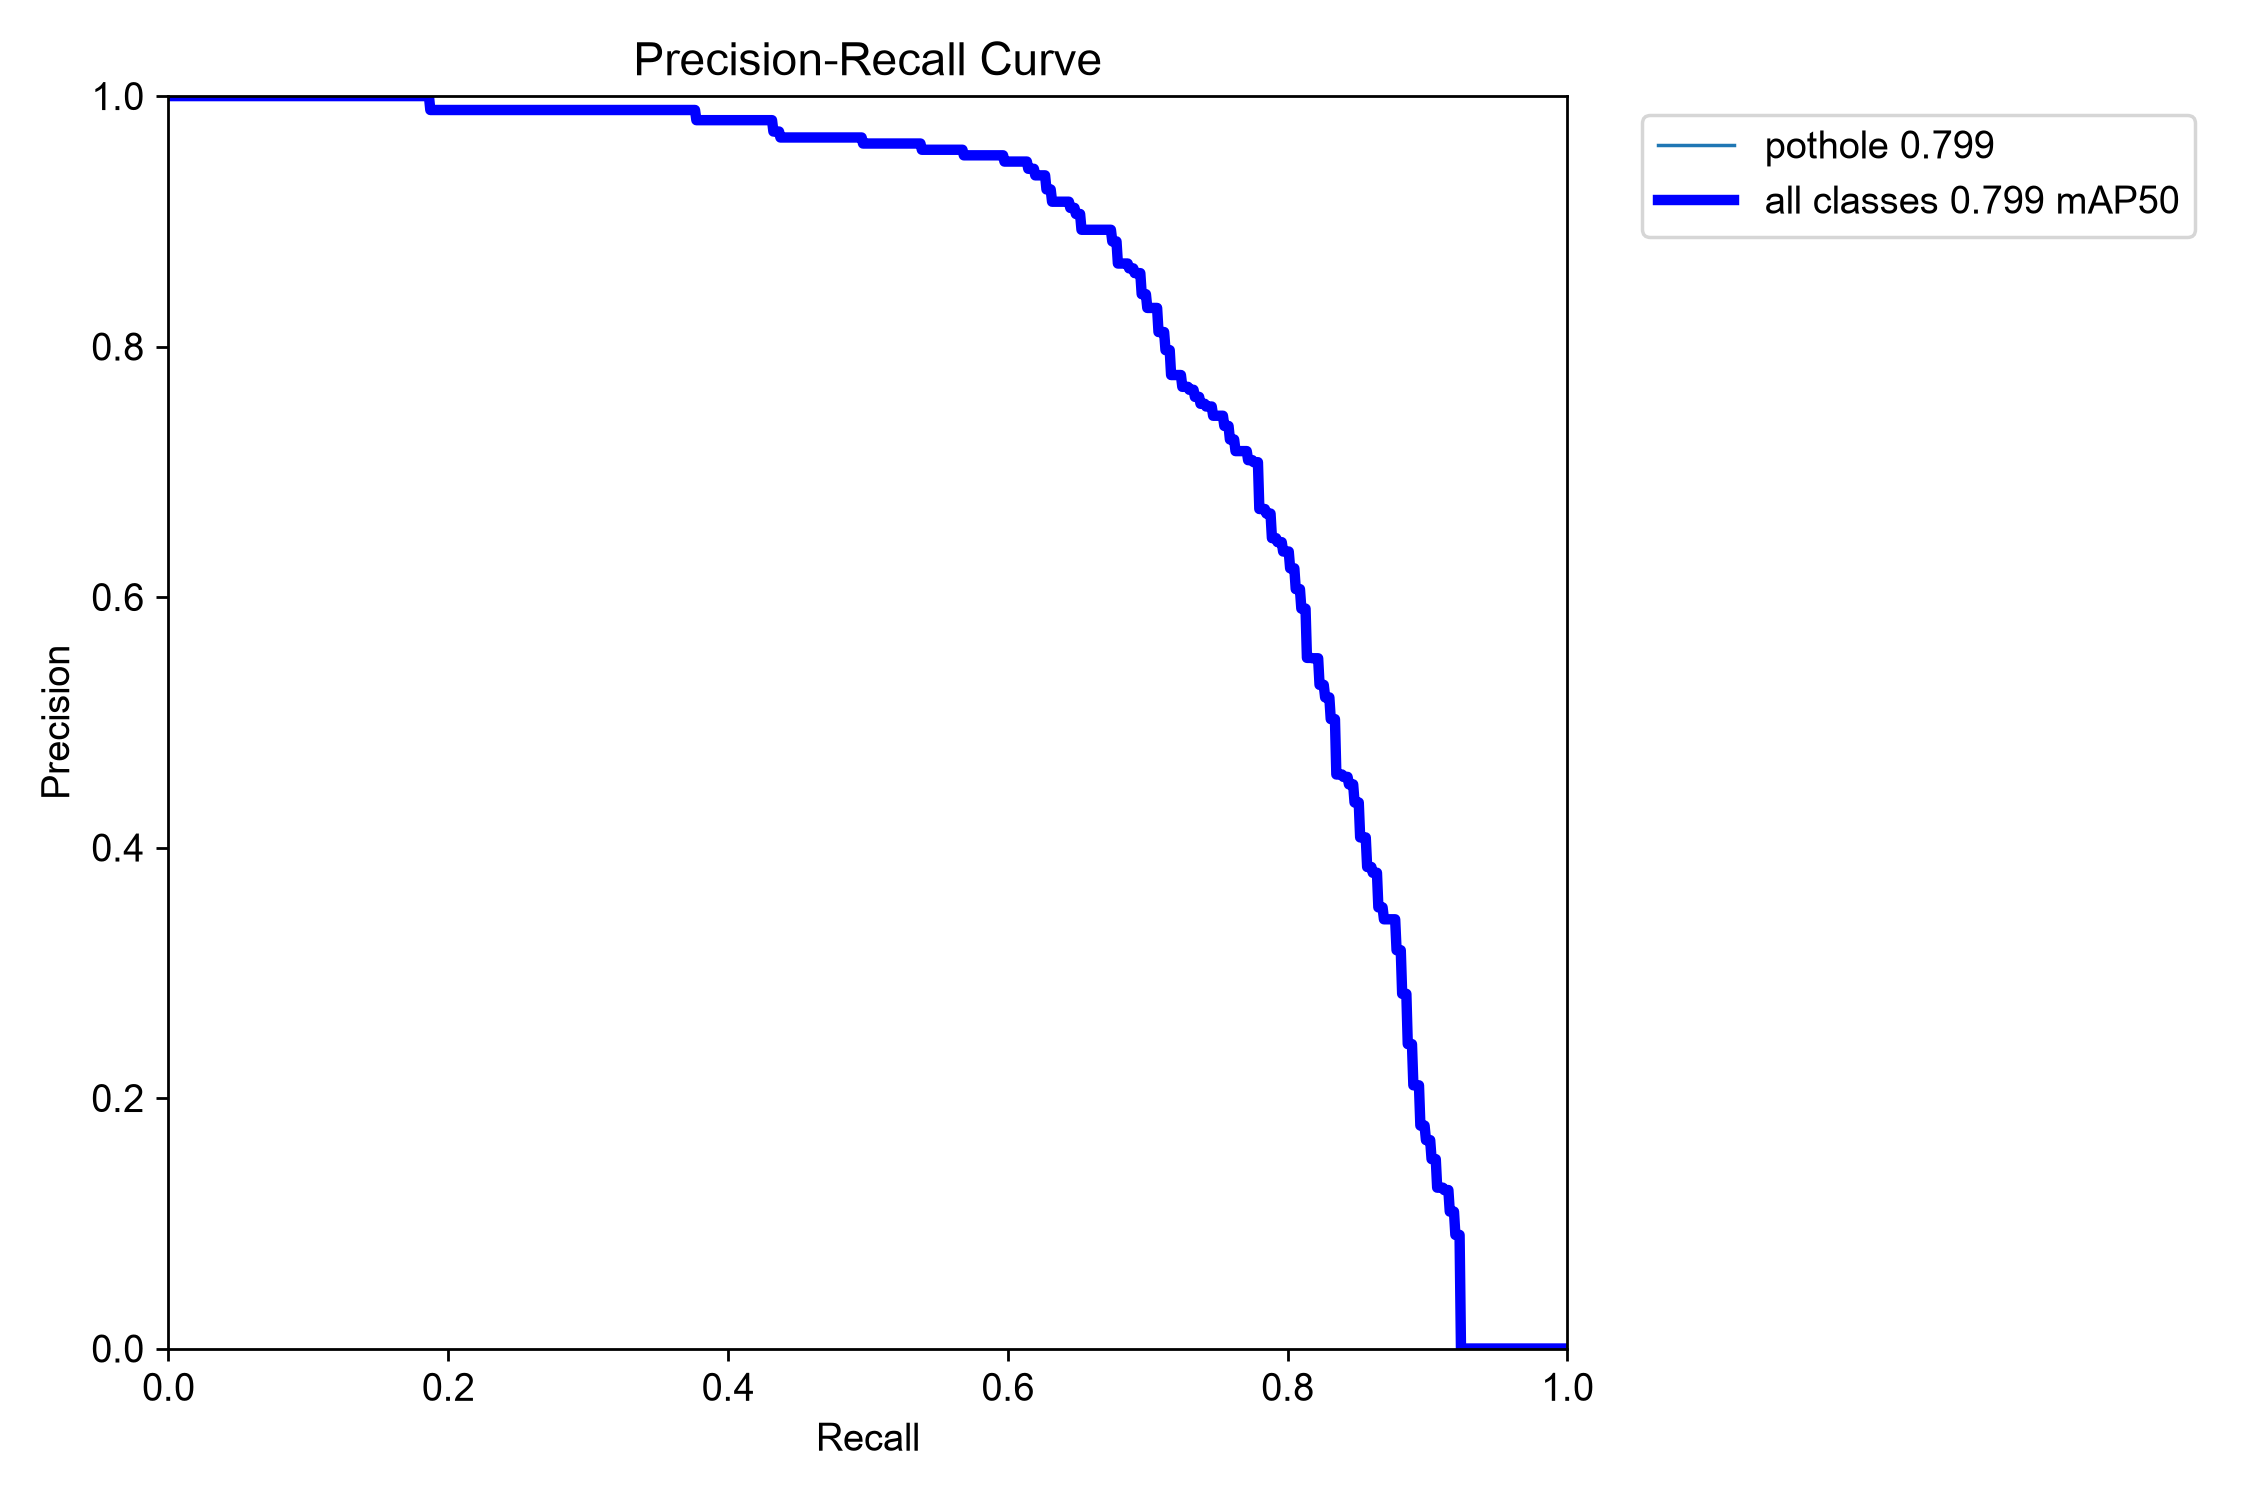
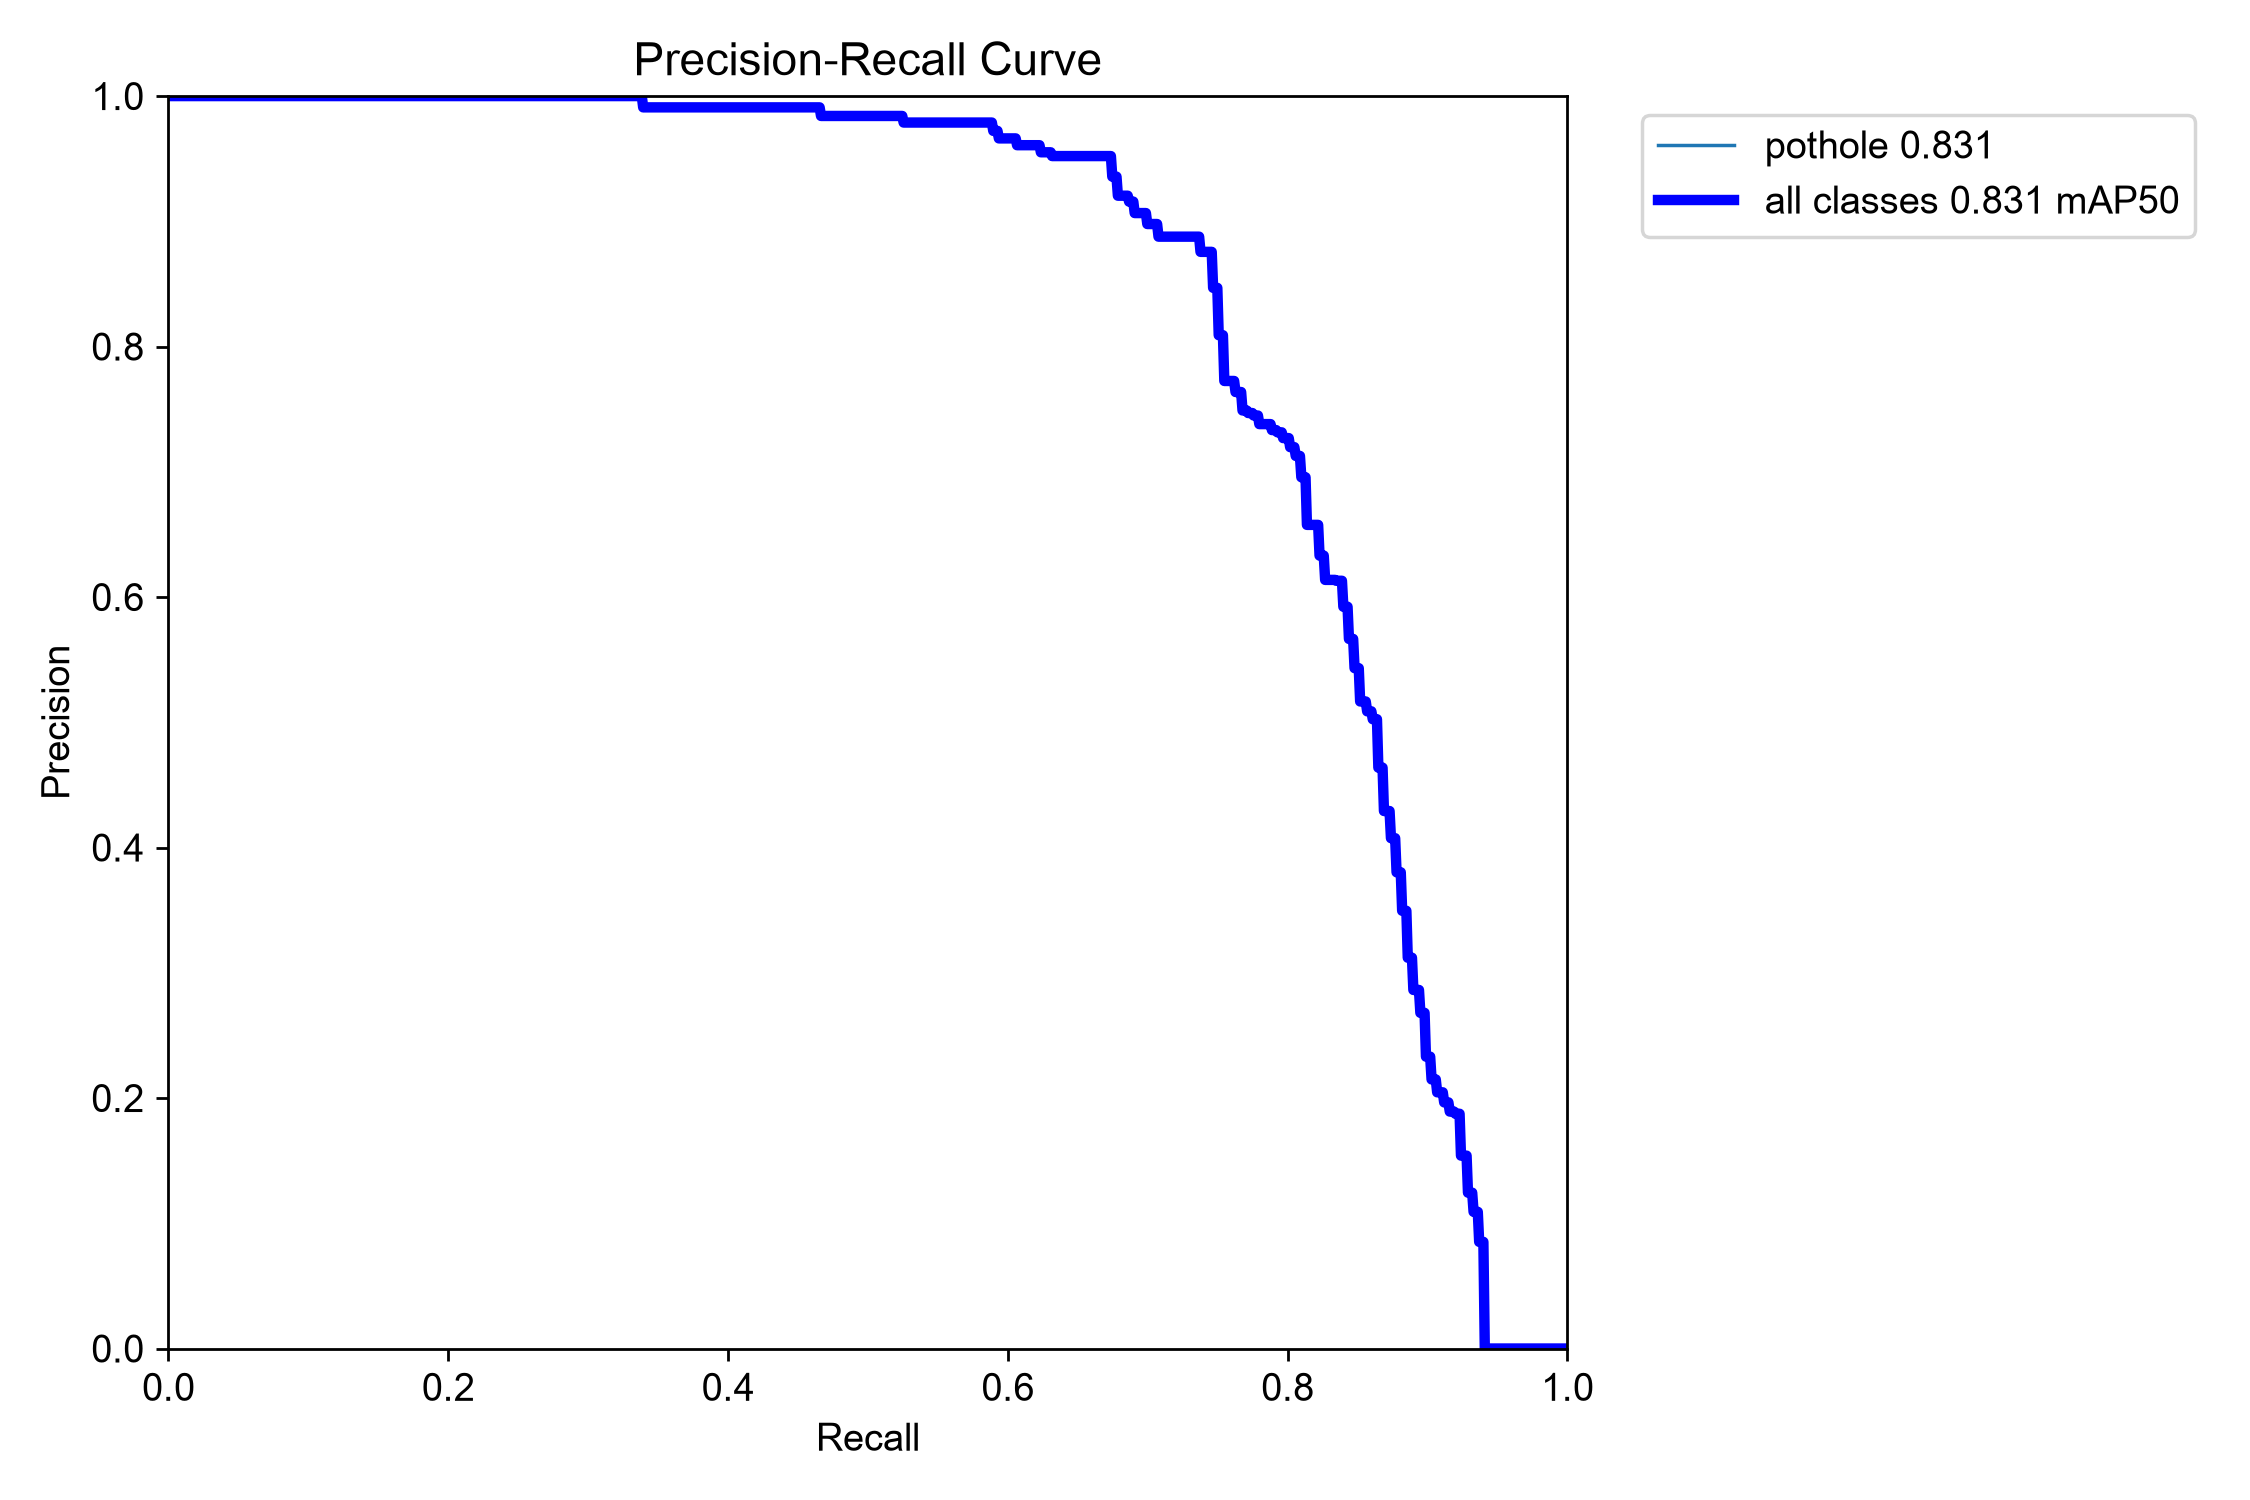
Show the champion E4's PR curve and confusion matrix at 0.40

Changed region(s): [[0.1867, 0.0613, 0.6844, 0.8893], [0.8711, 0.092, 0.9022, 0.1533]]

diff --git a/ml/README.md b/ml/README.md
@@ -60,7 +60,7 @@ It regenerates `ml/results/fig_runs_map50_recall.png` (test mAP50 and recall at 
 Two figures come from Ultralytics' own evaluation of the champion on the test split, the one `train.py` already runs, so test is not read again:
 
 - `fig_champion_pr_curve.png`: the precision-recall curve (Ultralytics' `BoxPR_curve.png`).
-- `fig_champion_confusion_at_040.png`: the confusion matrix at confidence 0.40, the app's counting threshold (Ultralytics' `confusion_matrix.png` from the `conf=0.40` pass). For E0: 160 potholes found, 76 missed, 23 false alarms on 236 test boxes, which gives recall 160/236 = 0.678 and precision 160/183 = 0.874, the numbers in `E0.json`.
+- `fig_champion_confusion_at_040.png`: the confusion matrix at confidence 0.40, the app's counting threshold (Ultralytics' `confusion_matrix.png` from the `conf=0.40` pass). The figures in the repository are for the current champion, **E4**: 174 potholes found, 62 missed, 25 false alarms on 236 test boxes, which gives recall 174/236 = 0.737 and precision 174/199 = 0.874, the numbers in `E4.json`. For comparison, E0 found 160, missed 76 and raised 23 false alarms (recall 0.678, precision 0.874).
 
 Do not use the confusion matrix from the default pass: Ultralytics evaluates at confidence 0.001 there, so it counts thousands of low-confidence boxes as false alarms that the app never shows. After a new champion (E8), copy its two figures from the run's `runs/detect/val-*` folders of the test passes and rerun `ml/plots.py`.
 
